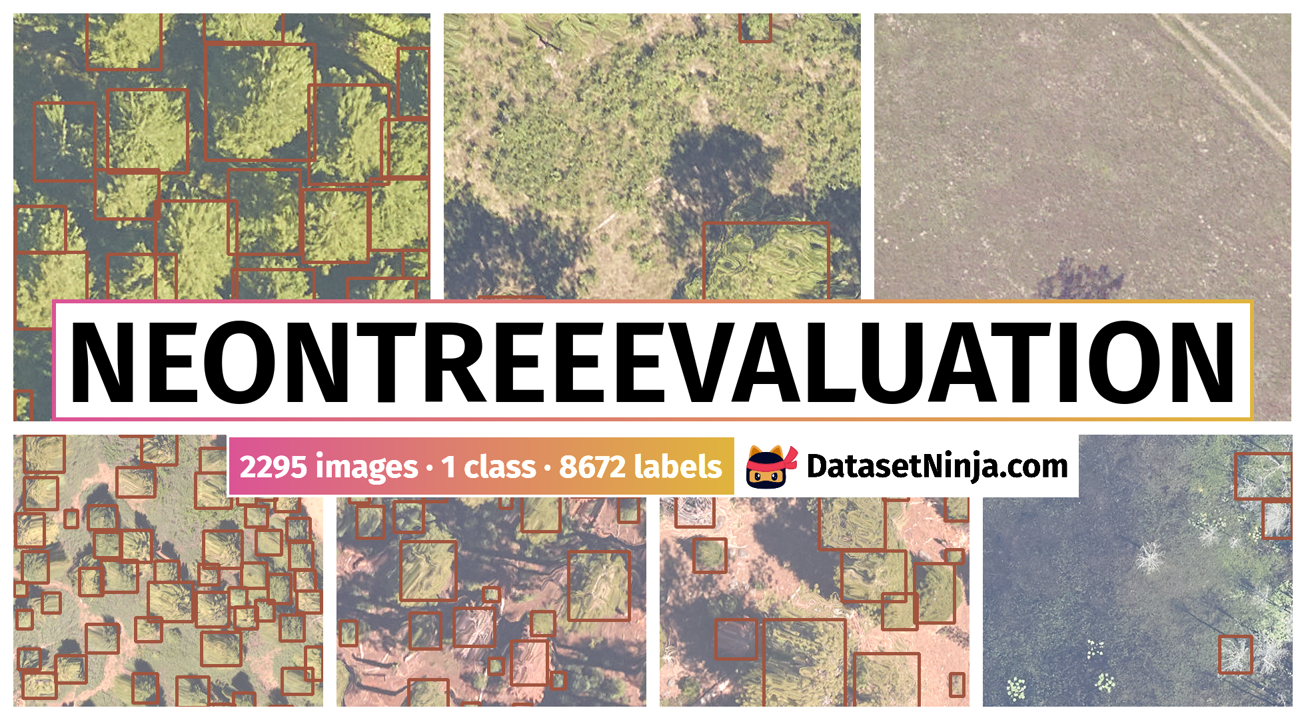
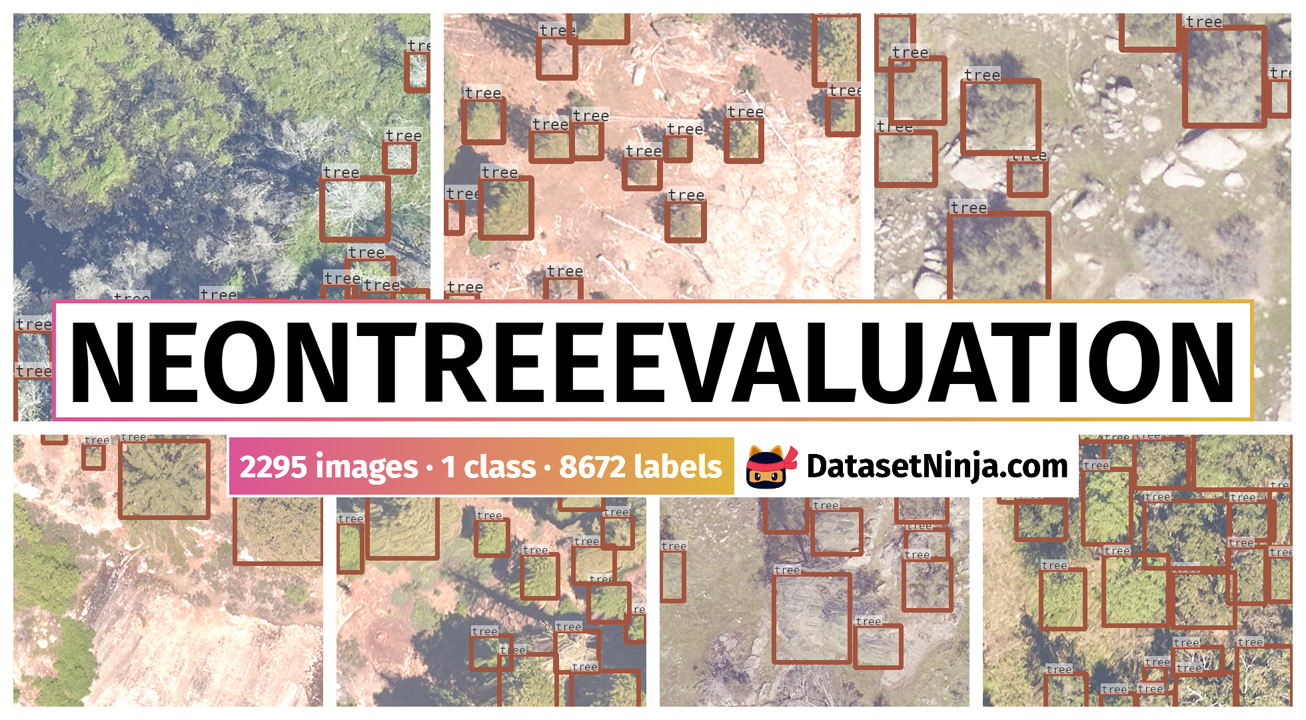
upd custom data

diff --git a/src/options.py b/src/options.py
@@ -1,0 +1,150 @@
+from dataset_tools.templates import AnnotationType
+from src.settings import ANNOTATION_TYPES
+
+###############################################################################
+# ! Set up values if you want to change default values of visualizations
+###############################################################################
+
+# * Preview class to visualize in SUMMARY.md overview section
+# * Literal["ClassesPreview", "HorizontalGrid", "SideAnnotationsGrid", "Poster"]
+# * If None, then preview_class will be set automatically to "ClassesPreview"
+PREVIEW_CLASS = "Poster"
+
+IS_DETECTION_TASK: bool = None  # ? Set True if you want to visualize only bbox annotations
+if IS_DETECTION_TASK is None:
+    IS_DETECTION_TASK = ANNOTATION_TYPES == [AnnotationType.ObjectDetection()]
+
+###############################################################
+####### * Set up visualization params for Poster class ########
+POSTER_IS_DETECTION_TASK: bool = IS_DETECTION_TASK
+POSTER_TITLE: str = None
+###############################################################
+
+
+###############################################################
+#### * Set up visualization params for HorizontalGrid class ###
+HORIZONTAL_GRID_ROWS: int = None
+HORIZONTAL_GRID_COLS: int = None
+HORIZONTAL_GRID_IS_DETECTION_TASK: bool = IS_DETECTION_TASK
+###############################################################
+
+
+###############################################################
+#### * Set up visualization params for VerticalGrid class #####
+VERTICAL_GRID_ROWS: int = None
+VERTICAL_GRID_COLS: int = None
+VERTICAL_GRID_IS_DETECTION_TASK: bool = IS_DETECTION_TASK
+###############################################################
+
+
+###############################################################
+# * Set up visualization params for SideAnnotationsGrid class #
+SIDE_ANNOTATIONS_GRID_ROWS: int = None
+SIDE_ANNOTATIONS_GRID_COLS: int = None
+SIDE_ANNOTATIONS_GRID_IS_DETECTION_TASK: bool = IS_DETECTION_TASK
+###############################################################
+
+
+###############################################################
+###### * Set up visualization params for Previews class #######
+PREVIEWS_IS_DETECTION_TASK: bool = IS_DETECTION_TASK
+###############################################################
+
+###############################################################
+### * Set up visualization params for ClassesPreview class ####
+CLASSES_PREVIEW_ROW_HEIGHT: int = None
+CLASSES_PREVIEW_PADDINGS: dict = None
+CLASSES_PREVIEW_ROWS: int = None
+CLASSES_PREVIEW_GAP: int = None
+# default {"top": "10%", "bottom": "10%", "left": "10%", "right": "10%"}
+# set % or px as string values (e.i. "10%" or "10px")
+###############################################################
+
+
+###############################################################
+### * Set up visualization params for ClassesHeatmaps class ###
+# args for "to_image" method
+DRAW_STYLE: str = None  # "inside_white" or "outside_black"
+HEATMAP_ROWS: int = None
+HEATMAP_COLS: int = None
+HEATMAP_GRID_SPACING: int = None
+HEATMAP_OUTER_GRID_SPACING: int = None
+HEATMAP_OUTPUT_WIDTH: int = (
+    None  # 1 class in dataset? -> 1600px for portrait images, 2200px for landscape
+)
+###############################################################
+
+
+##################################
+###### ? Do not edit bellow #####
+##################################
+
+
+def get_visualization_options():
+    vis_settings = {
+        "Poster": {
+            "title": POSTER_TITLE,
+            "is_detection_task": POSTER_IS_DETECTION_TASK,
+        },
+        "HorizontalGrid": {
+            "rows": HORIZONTAL_GRID_ROWS,
+            "cols": HORIZONTAL_GRID_COLS,
+            "is_detection_task": HORIZONTAL_GRID_IS_DETECTION_TASK,
+        },
+        "VerticalGrid": {
+            "rows": VERTICAL_GRID_ROWS,
+            "cols": VERTICAL_GRID_COLS,
+            "is_detection_task": VERTICAL_GRID_IS_DETECTION_TASK,
+        },
+        "SideAnnotationsGrid": {
+            "rows": SIDE_ANNOTATIONS_GRID_ROWS,
+            "cols": SIDE_ANNOTATIONS_GRID_COLS,
+            "is_detection_task": SIDE_ANNOTATIONS_GRID_IS_DETECTION_TASK,
+        },
+    }
+
+    checked_vis_settings = {}
+
+    for class_name, class_settings in vis_settings.items():
+        new_class_settings = {}
+        for field, value in class_settings.items():
+            if value is not None:
+                new_class_settings[field] = value
+        if len(new_class_settings) > 0:
+            checked_vis_settings[class_name] = new_class_settings
+
+    return checked_vis_settings
+
+
+def get_stats_options():
+    stats_settings = {
+        "ClassesPreview": {
+            "row_height": CLASSES_PREVIEW_ROW_HEIGHT,
+            "pad": CLASSES_PREVIEW_PADDINGS,
+            "rows": CLASSES_PREVIEW_ROWS,
+            "gap": CLASSES_PREVIEW_GAP,
+        },
+        "ClassesHeatmaps": {
+            "draw_style": DRAW_STYLE,
+            "rows": HEATMAP_ROWS,
+            "cols": HEATMAP_COLS,
+            "grid_spacing": HEATMAP_GRID_SPACING,
+            "outer_grid_spacing": HEATMAP_OUTER_GRID_SPACING,
+            "output_width": HEATMAP_OUTPUT_WIDTH,
+        },
+        "Previews": {
+            "is_detection_task": PREVIEWS_IS_DETECTION_TASK,
+        },
+    }
+
+    checked_stats_settings = {}
+
+    for class_name, class_settings in stats_settings.items():
+        new_class_settings = {}
+        for field, value in class_settings.items():
+            if value is not None:
+                new_class_settings[field] = value
+        if len(new_class_settings) > 0:
+            checked_stats_settings[class_name] = new_class_settings
+
+    return checked_stats_settings

diff --git a/src/settings.py b/src/settings.py
@@ -1,6 +1,14 @@
 from typing import Dict, List, Optional, Union
 
-from dataset_tools.templates import AnnotationType, CVTask, Industry, License
+from dataset_tools.templates import (
+    AnnotationType,
+    Category,
+    CVTask,
+    Domain,
+    Industry,
+    License,
+    Research,
+)
 
 ##################################
 # * Before uploading to instance #
@@ -13,10 +21,16 @@ PROJECT_NAME_FULL: Optional[str] = "Data for the NeonTreeEvaluation Benchmark"
 ##################################
 LICENSE: License = License.CC_BY_4_0()
 INDUSTRIES: List[Industry] = [Industry.GeneralDomain()]
+APPLICATIONS: List[Union[Industry, Domain, Research]] = [Research.Ecological(), Domain.Forestry()]
+CATEGORY: Category = Category.Environmental()
+
 CV_TASKS: List[CVTask] = [CVTask.ObjectDetection()]
 ANNOTATION_TYPES: List[AnnotationType] = [AnnotationType.ObjectDetection()]
 
-RELEASE_YEAR: int = 2022
+RELEASE_DATE: Optional[str] = "2022-01-27"  # e.g. "YYYY-MM-DD"
+if RELEASE_DATE is None:
+    RELEASE_YEAR: int = None
+
 HOMEPAGE_URL: str = "https://zenodo.org/record/5914554#.Yj2n739Bzmh"
 # e.g. "https://some.com/dataset/homepage"
 
@@ -39,10 +53,14 @@ DOWNLOAD_ORIGINAL_URL: Optional[Union[str, dict]] = {
 CLASS2COLOR: Optional[Dict[str, List[str]]] = None
 # If specific colors for classes are needed, fill this dict (e.g. {"class1": [255, 0, 0], "class2": [0, 255, 0]})
 
-PAPER: Optional[str] = None
-CITATION_URL: Optional[str] = None
-ORGANIZATION_NAME: Optional[Union[str, List[str]]] = None
-ORGANIZATION_URL: Optional[Union[str, List[str]]] = None
+PAPER: Optional[str] = "https://www.biorxiv.org/content/10.1101/2020.11.16.385088v1"
+CITATION_URL: Optional[str] = "https://zenodo.org/record/5914554/export/hx"
+AUTHORS: Optional[List[str]] = ["Ben Weinstein", "Sergio Marconi", "Ethan White"]
+
+ORGANIZATION_NAME: Optional[Union[str, List[str]]] = "University of Florida"
+ORGANIZATION_URL: Optional[Union[str, List[str]]] = "https://www.ufl.edu/"
+
+SLYTAGSPLIT: Optional[Dict[str, List[str]]] = None
 TAGS: List[str] = None
 
 ##################################
@@ -57,10 +75,15 @@ def check_names():
 
 
 def get_settings():
+    if RELEASE_DATE is not None:
+        global RELEASE_YEAR
+        RELEASE_YEAR = int(RELEASE_DATE.split("-")[0])
+
     settings = {
         "project_name": PROJECT_NAME,
         "license": LICENSE,
-        "industries": INDUSTRIES,
+        "applications": APPLICATIONS,
+        "category": CATEGORY,
         "cv_tasks": CV_TASKS,
         "annotation_types": ANNOTATION_TYPES,
         "release_year": RELEASE_YEAR,
@@ -72,13 +95,16 @@ def get_settings():
     if any([field is None for field in settings.values()]):
         raise ValueError("Please fill all fields in settings.py after uploading to instance.")
 
+    settings["release_date"] = RELEASE_DATE
     settings["project_name_full"] = PROJECT_NAME_FULL or PROJECT_NAME
     settings["download_original_url"] = DOWNLOAD_ORIGINAL_URL
     settings["class2color"] = CLASS2COLOR
     settings["paper"] = PAPER
     settings["citation_url"] = CITATION_URL
+    settings["authors"] = AUTHORS
     settings["organization_name"] = ORGANIZATION_NAME
     settings["organization_url"] = ORGANIZATION_URL
-    settings["tags"] = TAGS if TAGS is not None else []
+    settings["slytagsplit"] = SLYTAGSPLIT
+    settings["tags"] = TAGS
 
     return settings

diff --git a/src/main.py b/src/main.py
@@ -7,6 +7,7 @@ import supervisely as sly
 from dataset_tools import ProjectRepo
 from dotenv import load_dotenv
 
+import src.options as o
 import src.settings as s
 from src.convert import convert_and_upload_supervisely_project
 
@@ -25,8 +26,8 @@ def get_project_info(api: sly.Api):
     project_info = api.project.get_info_by_name(WORKSPACE_ID, s.PROJECT_NAME)
     if not project_info:
         # If project doesn't found on instance, create it and use new project info.
+        sly.logger.info(f"Project {s.PROJECT_NAME} not found on instance. Creating a new one...")
         project_info = convert_and_upload_supervisely_project(api, WORKSPACE_ID, s.PROJECT_NAME)
-        sly.logger.info(f"Project {s.PROJECT_NAME} not found on instance. Created new project.")
         sly.logger.info("Now you can explore created project and choose 'preview_image_id'.")
         sys.exit(0)
     else:
@@ -56,6 +57,9 @@ if __name__ == "__main__":
     project_id = get_project_info(api).id
     settings = s.get_settings()
 
+    stat_options = o.get_stats_options()
+    vis_options = o.get_visualization_options()
+
     sly.logger.info(f"Starting to work with project id: {project_id}.")
 
     force_stats = forces.get("force_stats")
@@ -63,11 +67,9 @@ if __name__ == "__main__":
     force_texts = forces.get("force_texts")
 
     project_repo = ProjectRepo(api, project_id, settings)
-    project_repo.build_stats(force=force_stats)
-    project_repo.build_visualizations(force=force_visuals)
+    project_repo.build_stats(force=force_stats, settings=stat_options)
+    project_repo.build_visualizations(force=force_visuals, settings=vis_options)
 
-    # * Optional parameter preview_class should be passed if needed:
-    # * Literal["ClassesPreview", "HorizontalGrid", "SideAnnotationsGrid"]
-    project_repo.build_texts(force=force_texts, preview_class="HorizontalGrid")
+    project_repo.build_texts(force=force_texts, preview_class=o.PREVIEW_CLASS)
 
     sly.logger.info("Script finished.")

diff --git a/SUMMARY.md b/SUMMARY.md
@@ -1,9 +1,7 @@
-**Data for the NeonTreeEvaluation Benchmark** is a dataset for object detection tasks. It is applicable or relevant across various domains.
+**Data for the NeonTreeEvaluation Benchmark** is a dataset for object detection tasks. It is used in the ecological research, and forestry domain. 
 
 The dataset consists of 2295 images with 8672 labeled objects belonging to 1 single class (*tree*).
 
-Each image in the NeonTreeEvaluation dataset has bounding boxes annotations. There are 2095 (91% of the total) unlabeled images (i.e. without annotations). There is 1 split in the dataset: *ds* (2295 images). The dataset was released in 2022.
+Images in the NeonTreeEvaluation dataset have bounding box annotations. There are 2095 (91% of the total) unlabeled images (i.e. without annotations). There are no pre-defined <i>train/val/test</i> splits in the dataset. The dataset was released in 2022 by the [University of Florida](https://www.ufl.edu/).
 
-Here is the visualized example grid with annotations:
-
-[Dataset classes](https://github.com/dataset-ninja/neon-tree/raw/main/visualizations/horizontal_grid.webm)
+<img src="https://github.com/dataset-ninja/neon-tree/raw/main/visualizations/poster.png">

diff --git a/CITATION.md b/CITATION.md
@@ -1,12 +1,18 @@
 If you make use of the NeonTreeEvaluation data, please cite the following reference:
 
 ```bibtex
-@misc{NeonTreeEvaluation,
-	author = "Ben Weinstein, Sergio Marconi, & Ethan White",
-	title = "Data for the NeonTreeEvaluation Benchmark (0.2.2)",
-	year = {2022},
-	url = "https://doi.org/10.5281/zenodo.5914554"
+@dataset{ben_weinstein_2022_5914554,
+  author       = {Ben Weinstein and
+                  Sergio Marconi and
+                  Ethan White},
+  title        = {Data for the NeonTreeEvaluation Benchmark},
+  month        = jan,
+  year         = 2022,
+  publisher    = {Zenodo},
+  version      = {0.2.2},
+  doi          = {10.5281/zenodo.5914554},
+  url          = {https://doi.org/10.5281/zenodo.5914554}
 }
 ```
 
-[🔗 Source](https://zenodo.org/record/5914554#.Yj2n739Bzmh)
+[🔗 Source](https://zenodo.org/record/5914554/export/hx)
